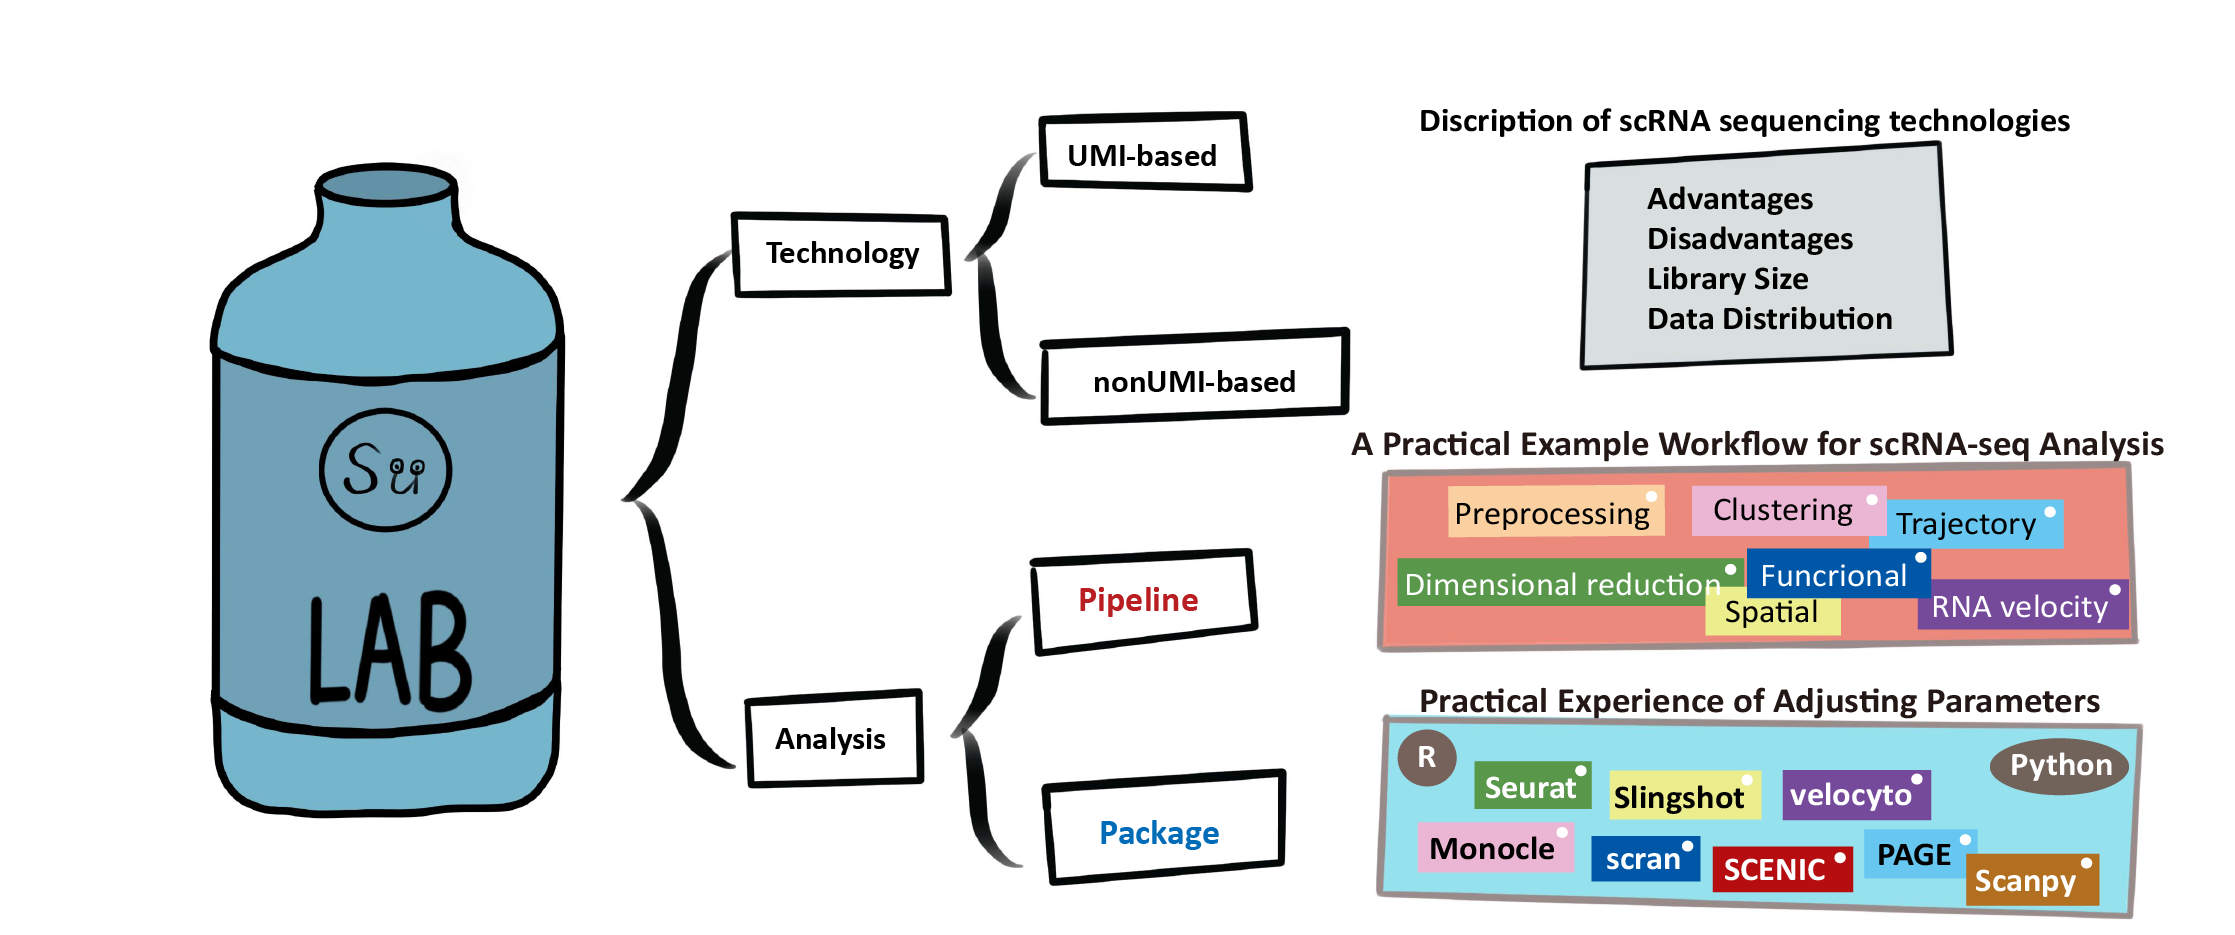
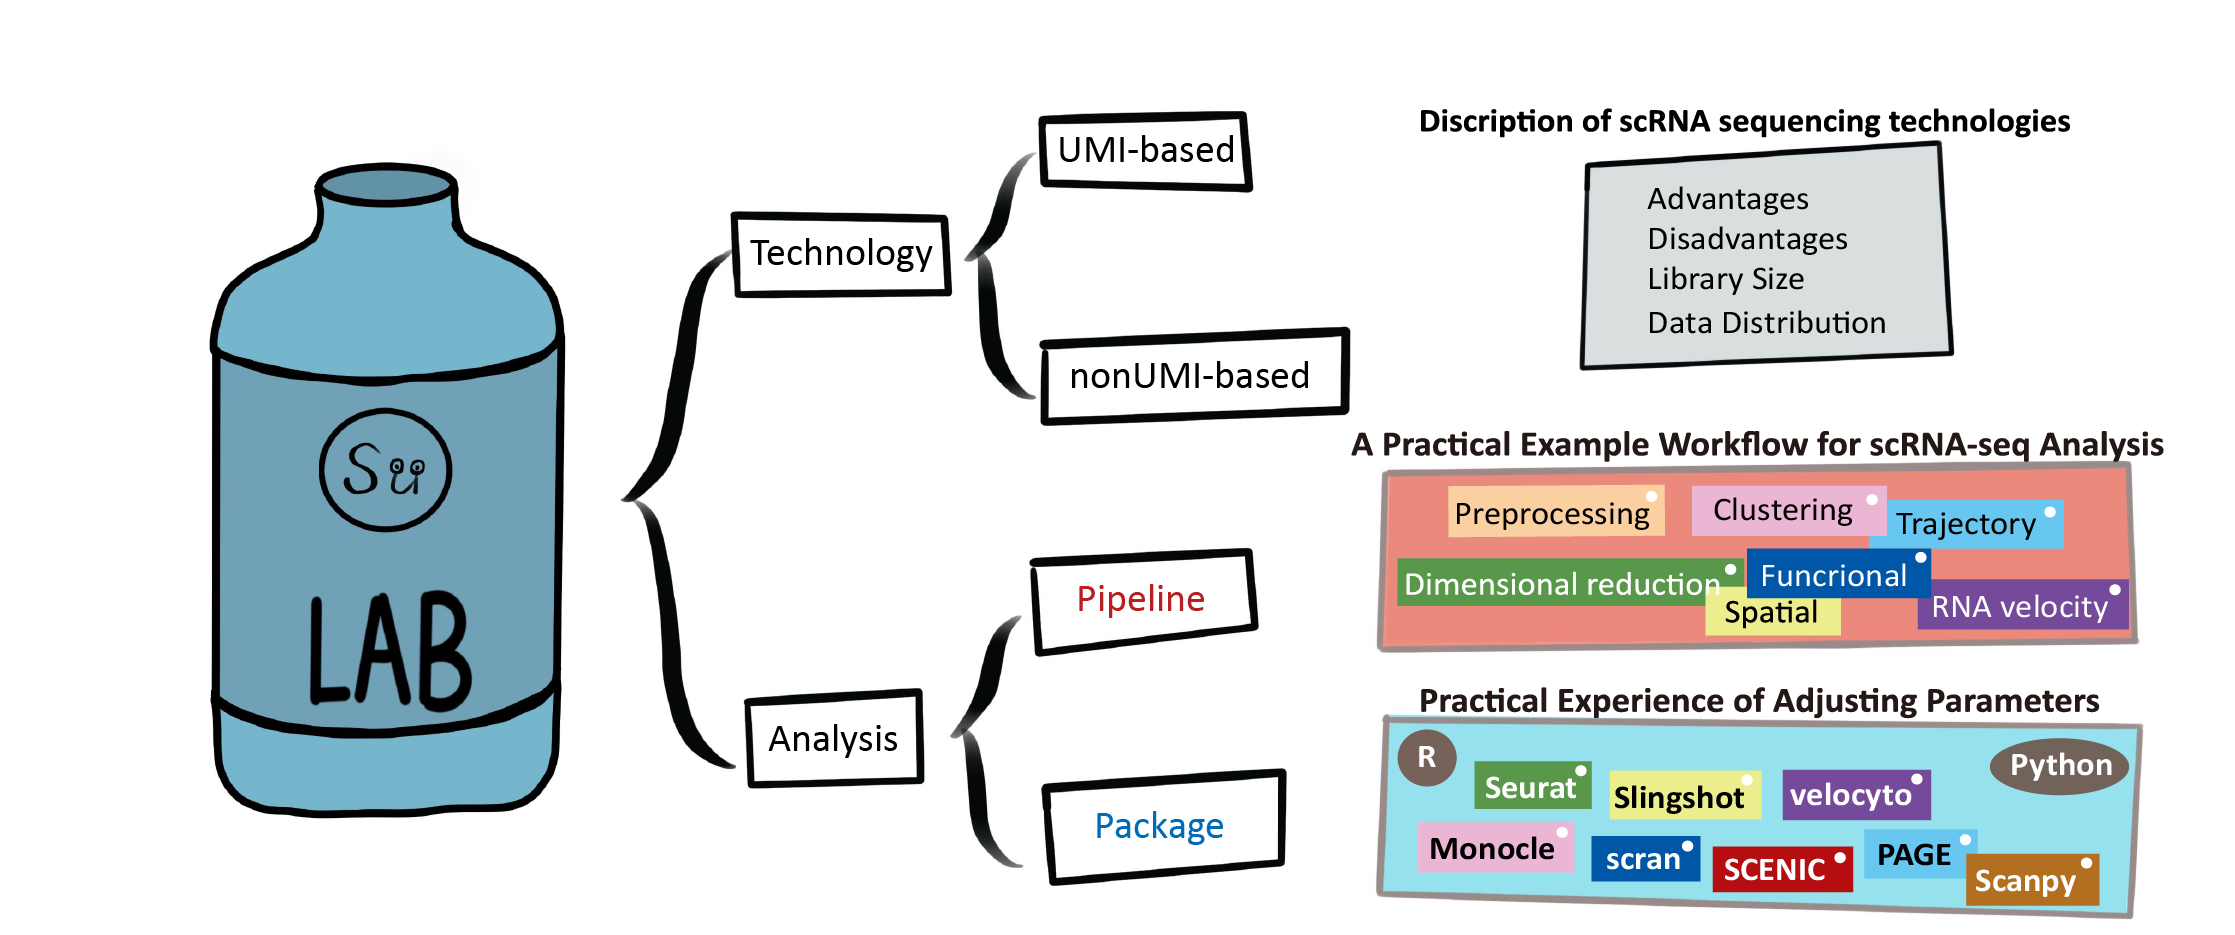
add new pictures

diff --git a/README.md b/README.md
@@ -1,4 +1,4 @@
-<div align=left><img width="350" height="140" src="https://github.com/sulab-wmu/scRNA-subLab/blob/master/pic/scRNA-sulab.png"/> </div>
+<div align=center><img width="450" height="180" src="https://github.com/sulab-wmu/scRNA-subLab/blob/master/pic/scRNA-sulab.png"/> </div>
 <hr/>
 scRNA techniques, analysis pipelines, and widely-used R/Python packages
 
